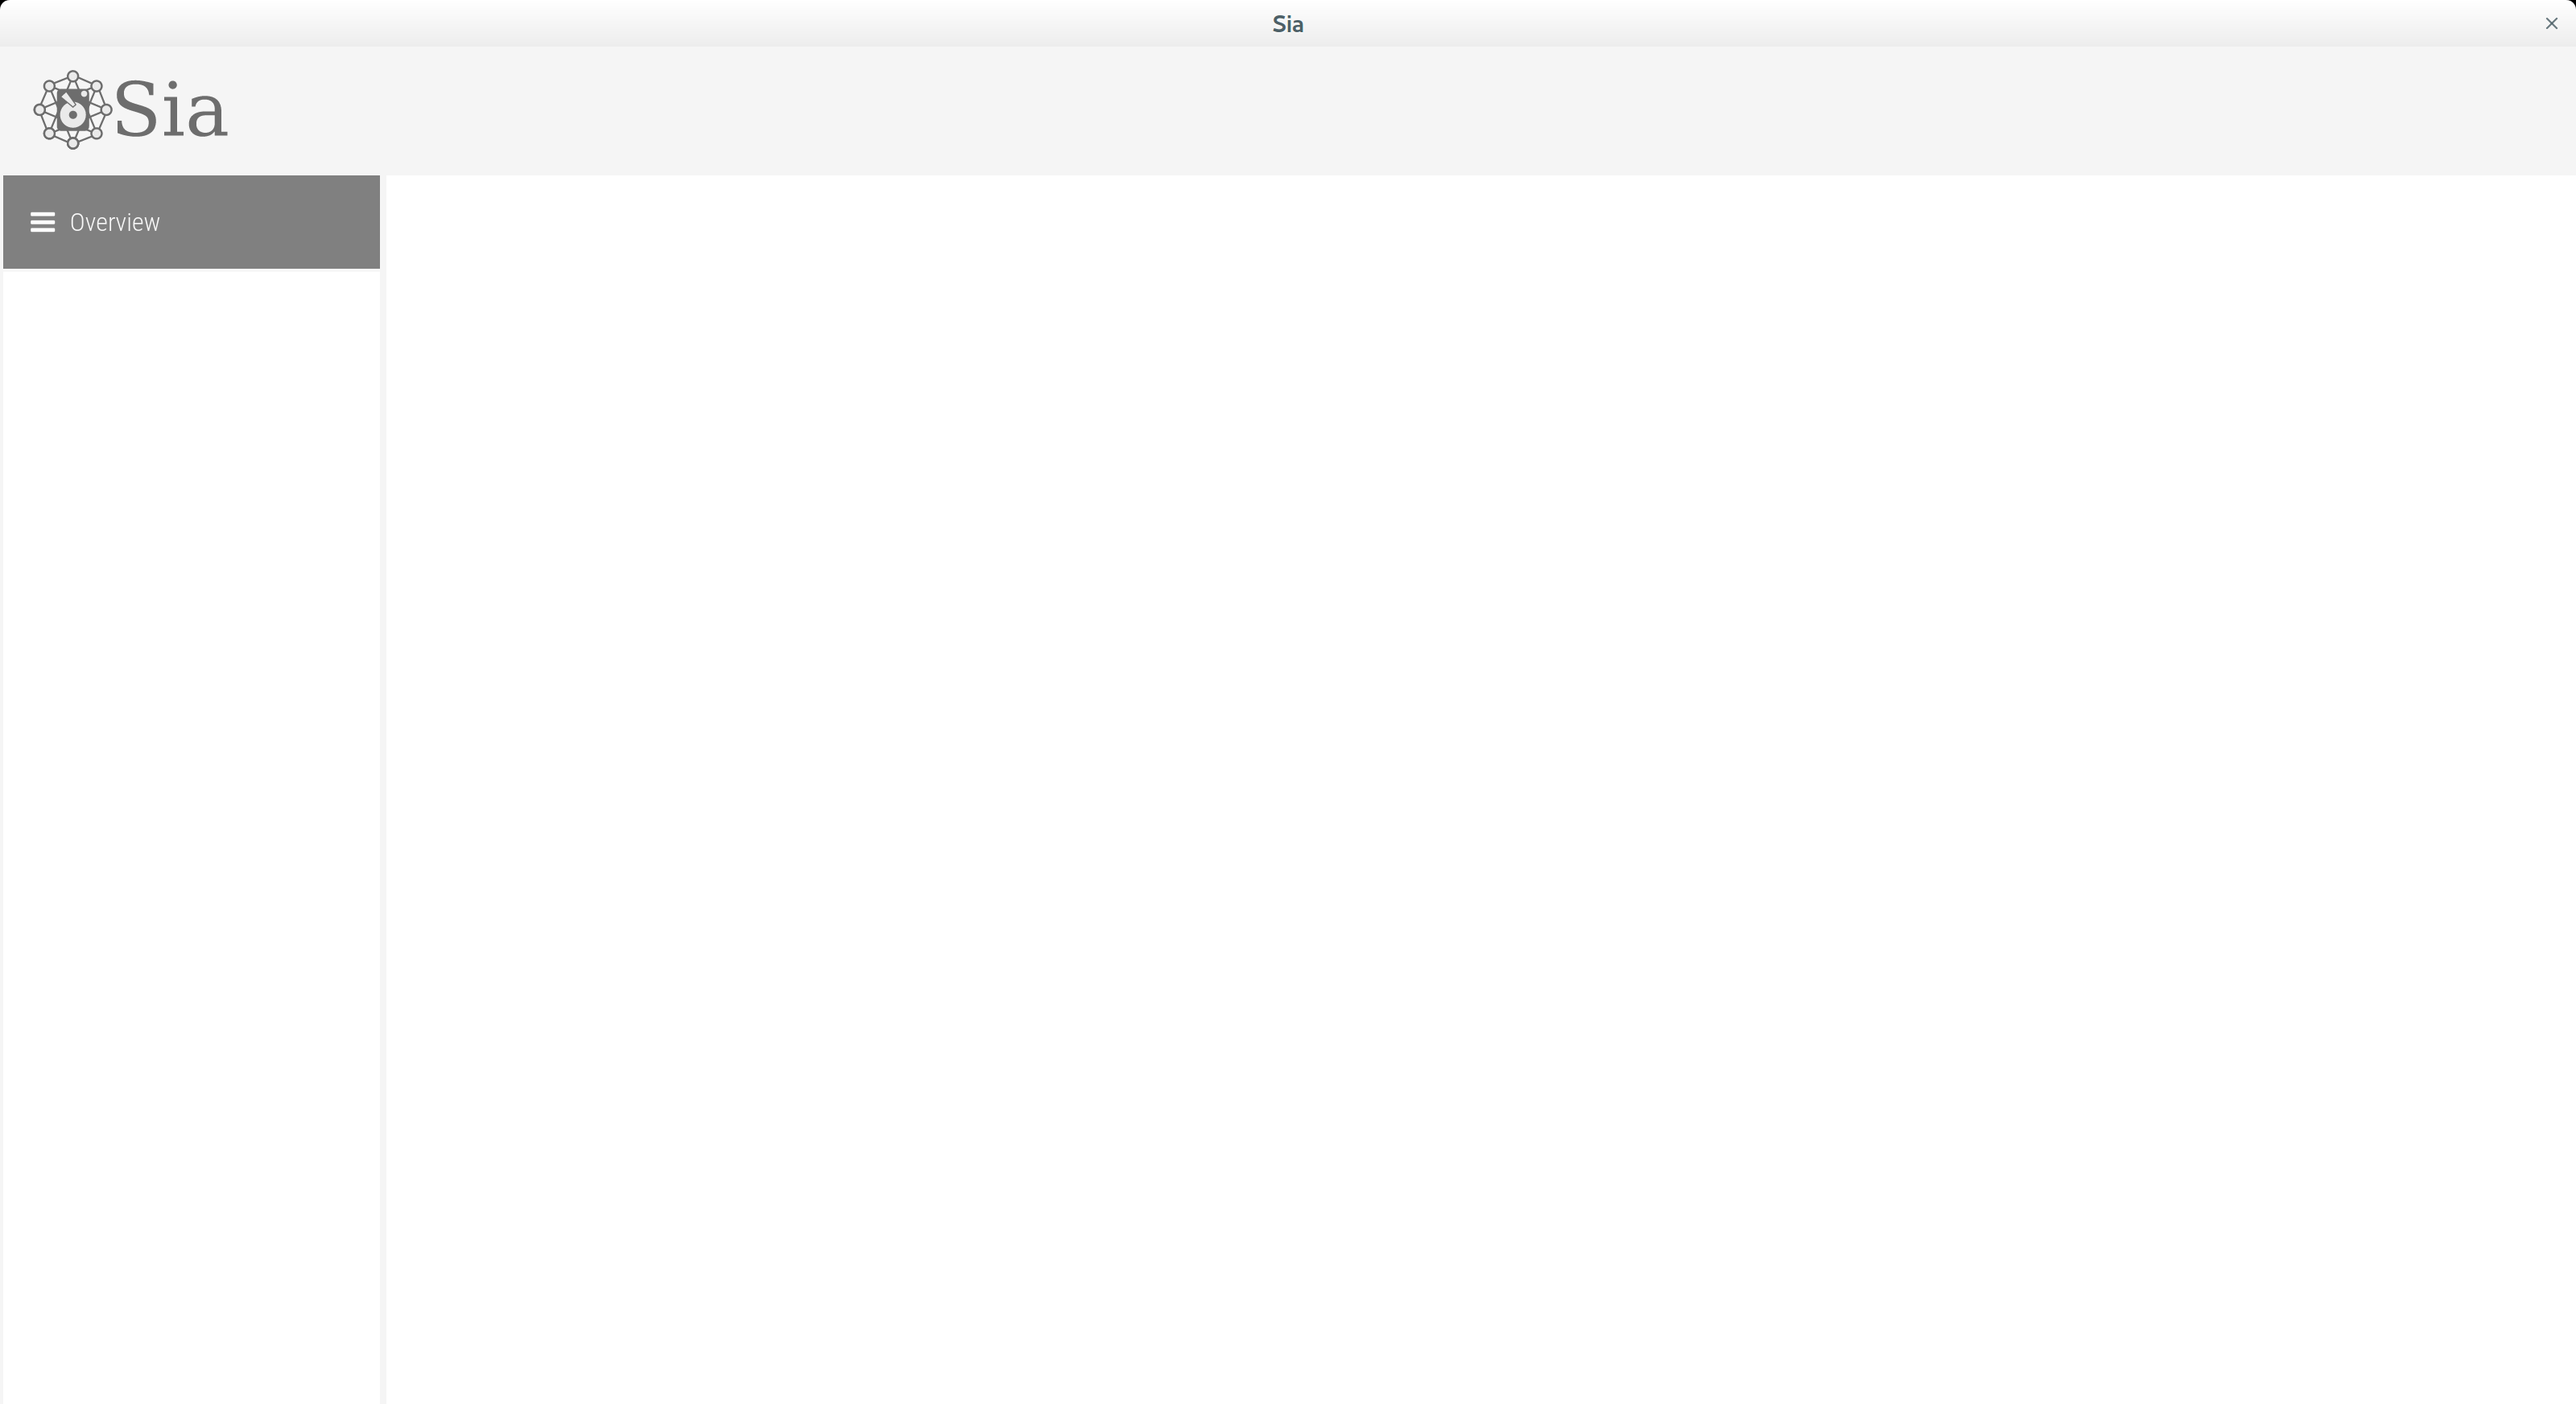
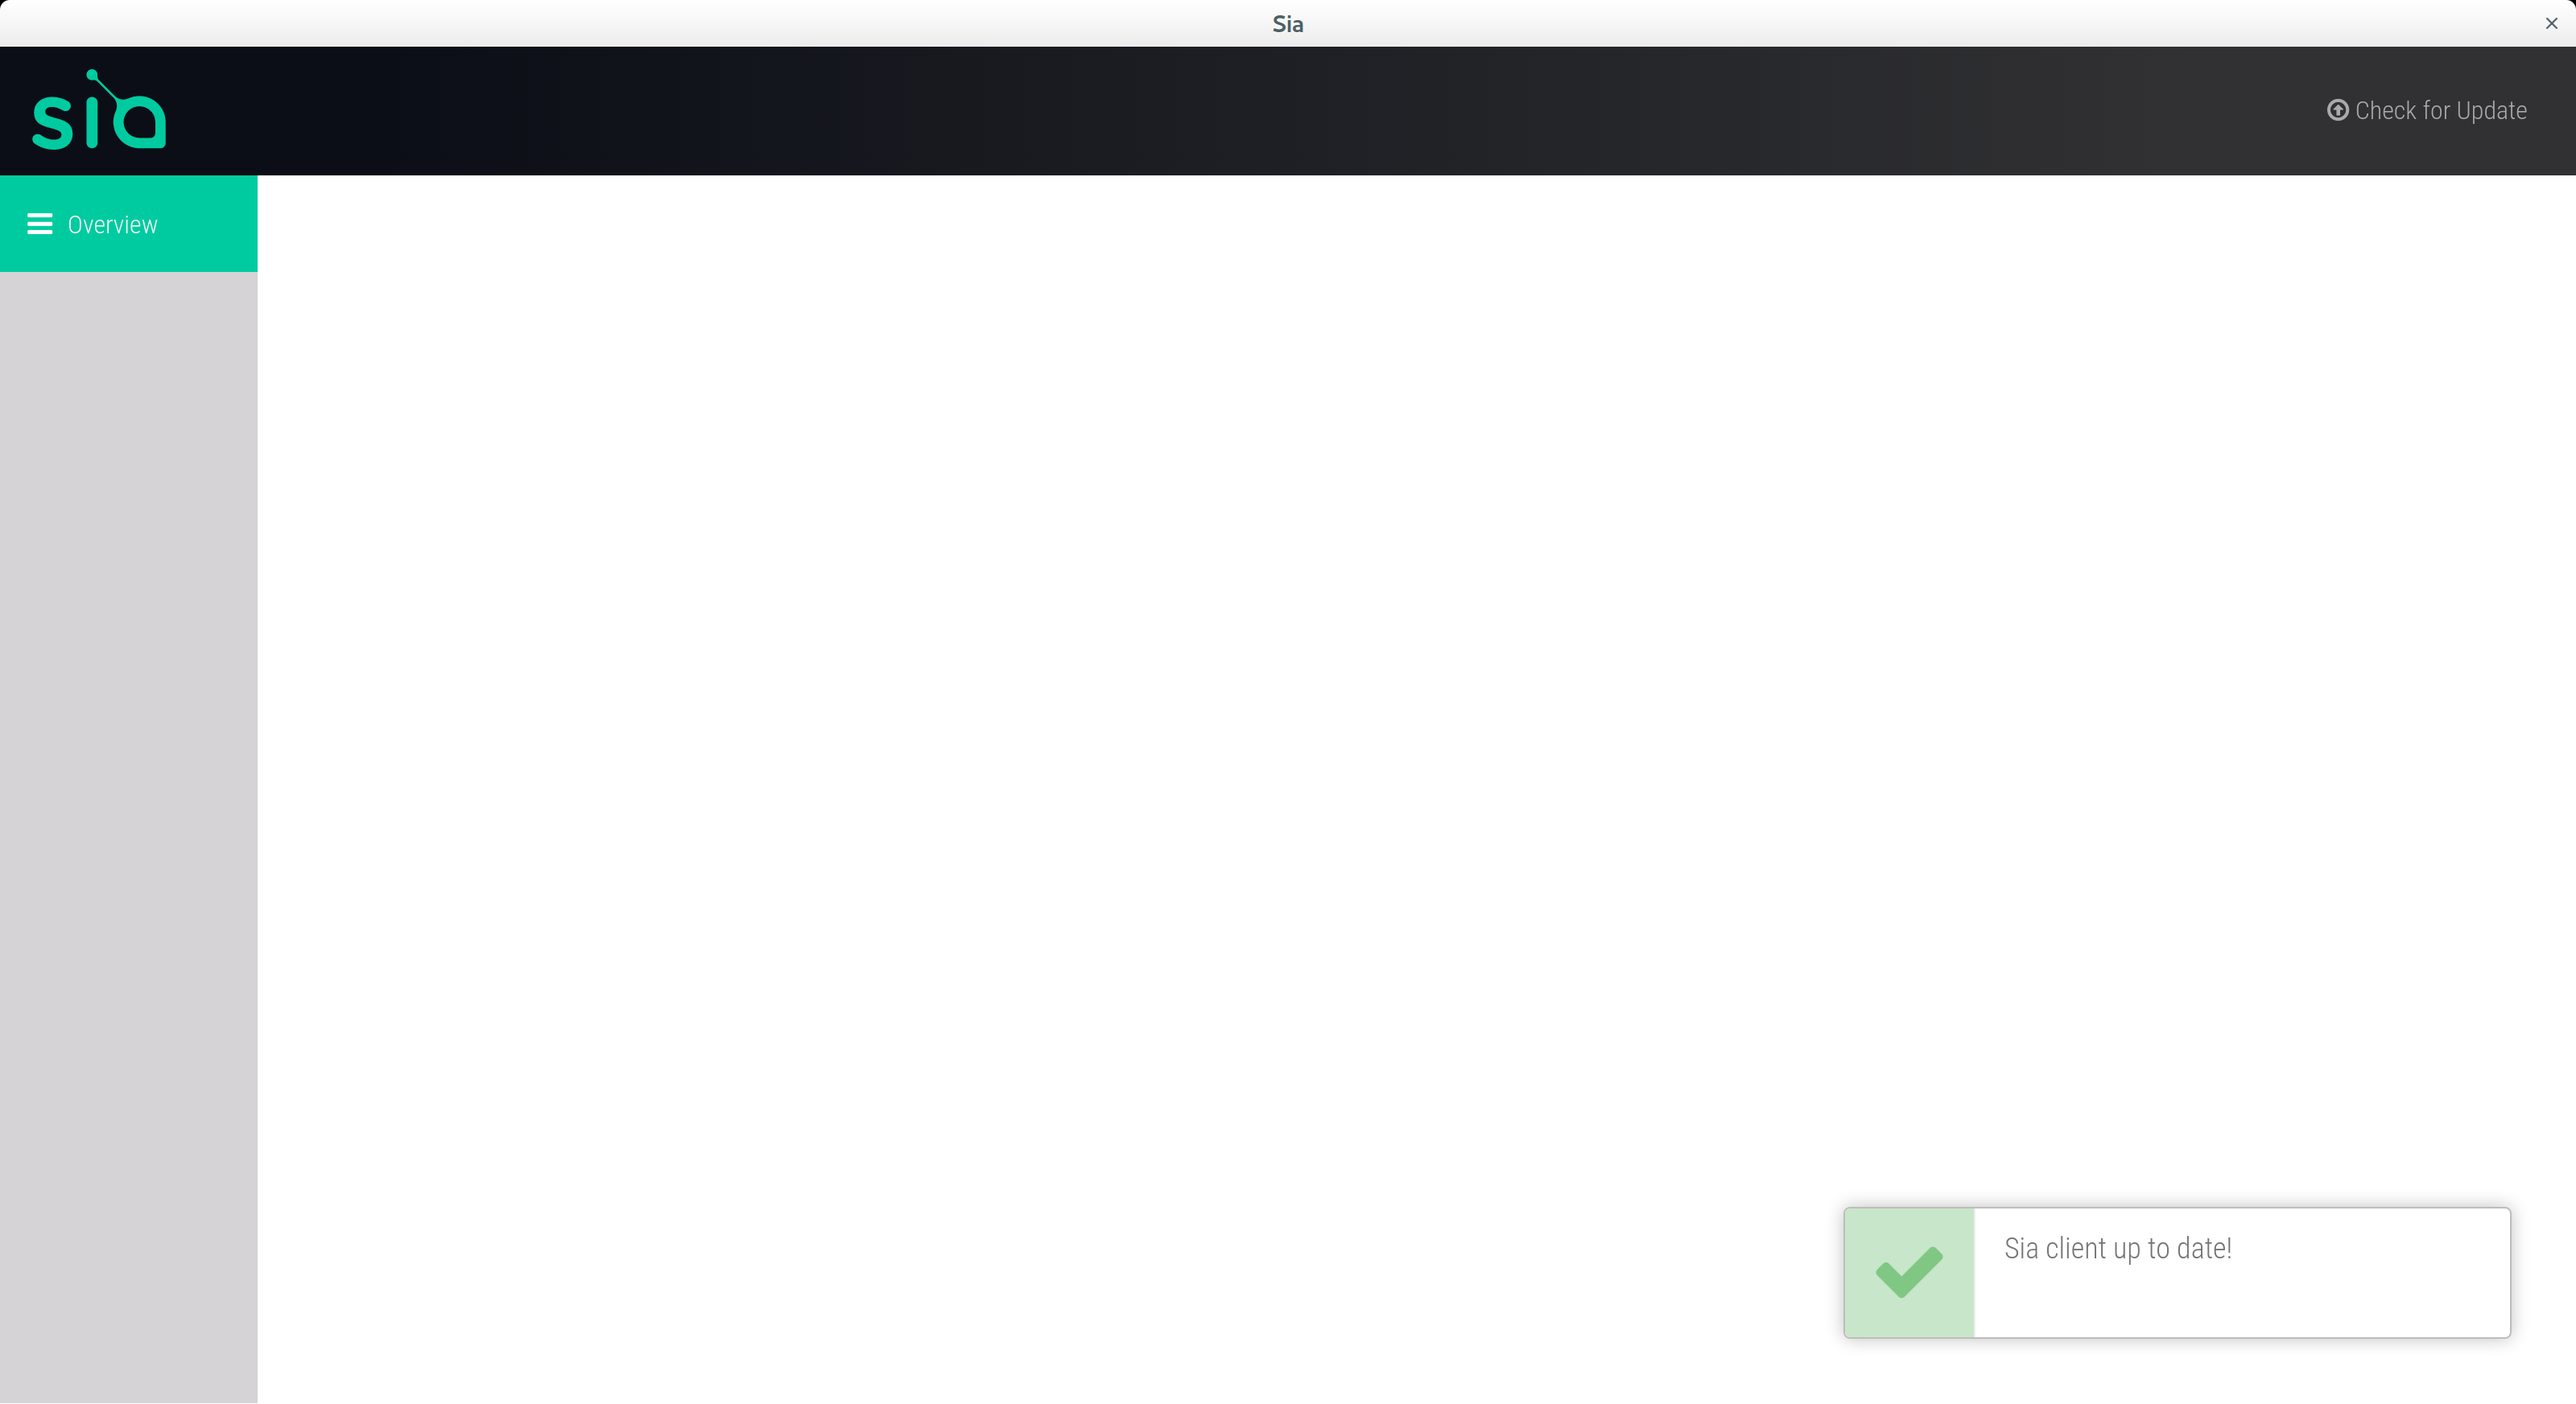
updated most pics in the plugin-tutorial

Changed region(s): [[0.0, 0.0309, 1.0, 1.0], [0.6875, 0.8355, 0.8438, 0.9593]]

diff --git a/doc/PluginTutorial.md b/doc/PluginTutorial.md
@@ -584,8 +584,8 @@ function stop() {
 
 Loading up Sia-UI again, we'll all see something different because the numbers
 should be pulled from the API and one's siad-state. In our case, the view shows
-the highly active dev network:
-![Impressive plugin ain't it?](/doc/assets/dev-overview.png)
+the yet-encrypted release network:
+![Impressive plugin ain't it?](/doc/assets/working-overview.png)
 
 ### Abstracting the Extra Mile
 
